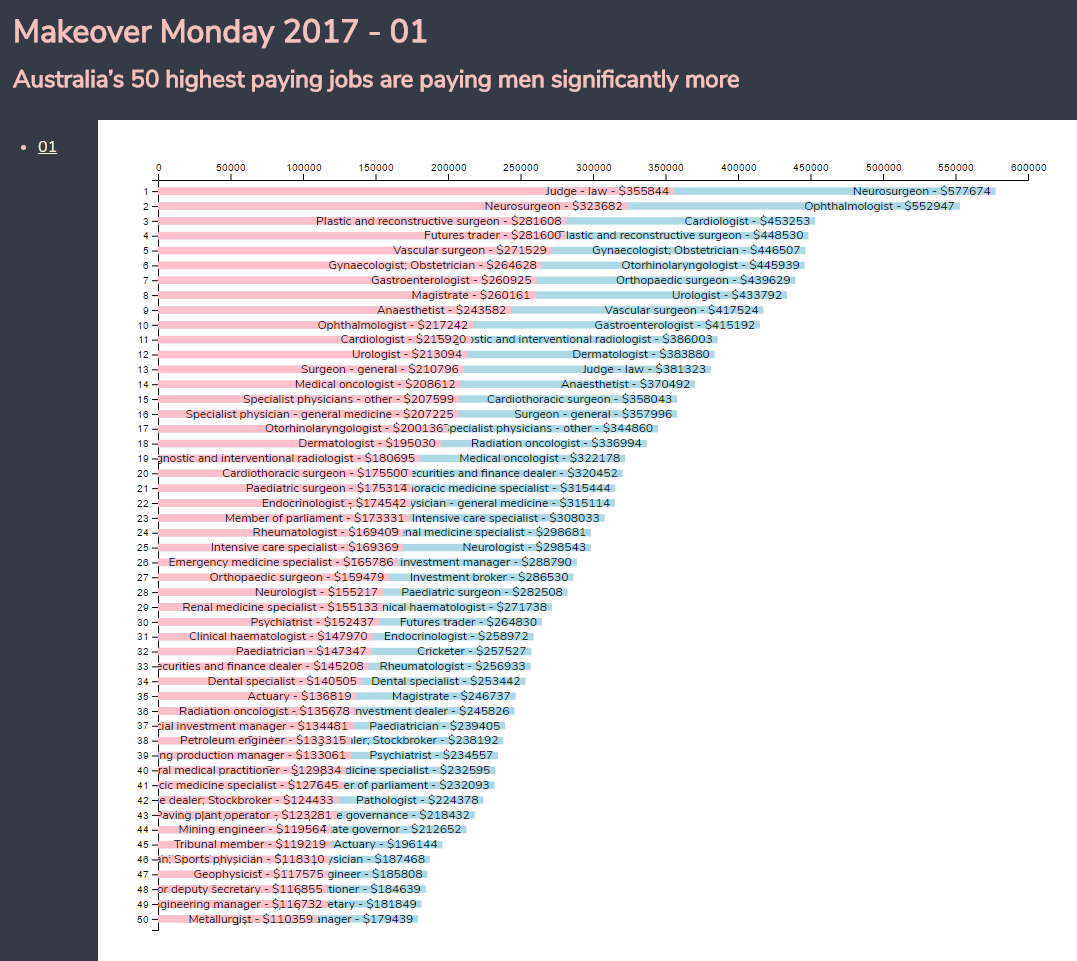
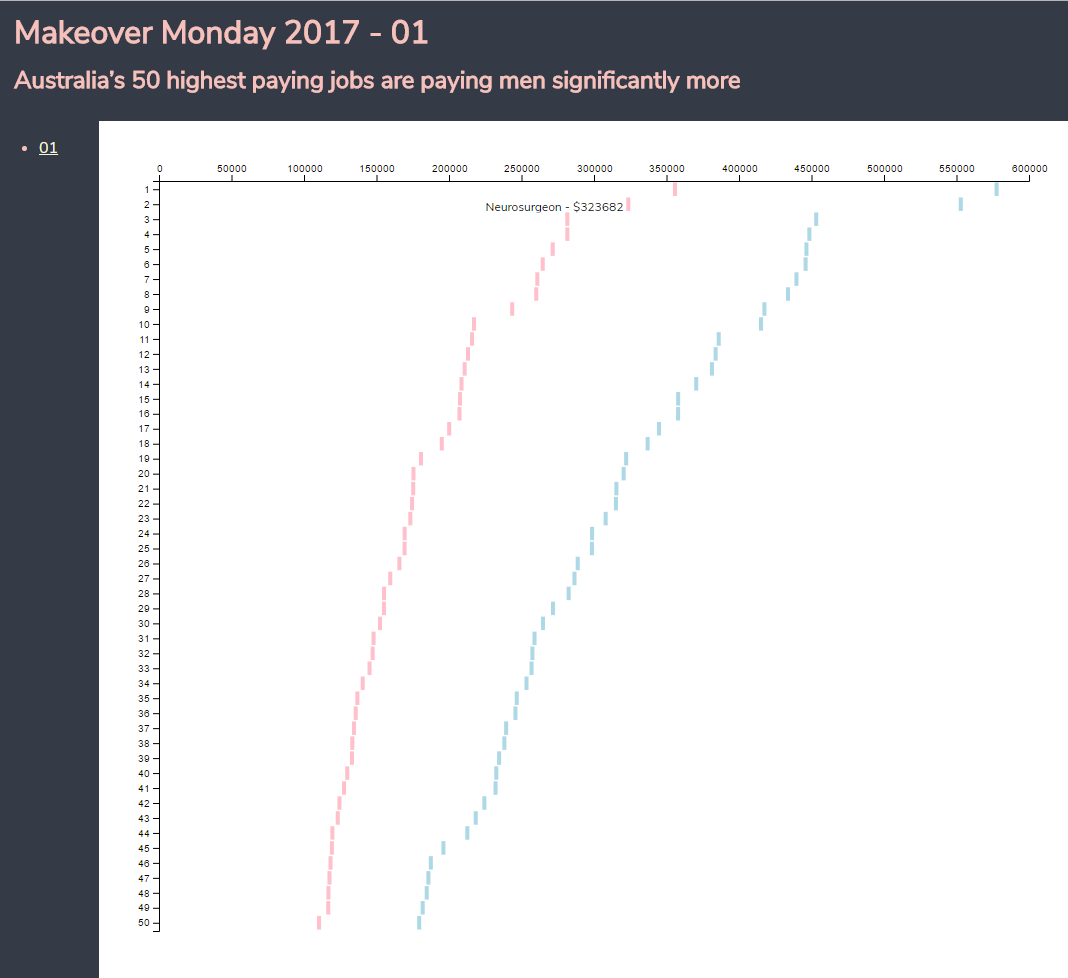
Reviewed and lighter design

Changed region(s): [[0.1236, 0.1561, 0.9888, 0.9677], [0.0, 0.0, 0.7107, 0.0937], [0.0309, 0.1249, 0.0618, 0.1561]]

diff --git a/src/components/challenges/01/component.ts b/src/components/challenges/01/component.ts
@@ -40,7 +40,7 @@ function controller(csvService: ICsvService) {
 
     let xAxis = new TopLinearAxis<any>(plotGroup, plotWidth, plotHeight);
     let yAxis = new LeftCategoricalAxis<any>(plotGroup, plotWidth, plotHeight)
-        .padding(0.5)
+        .padding(0.1)
         .domain(d3.range(1, 51, 1).map(d => d.toString()));
     let seriesGroup = plotGroup.append('g')
         .attr('clip-path', 'url(\'#clip\')')
@@ -64,9 +64,10 @@ function controller(csvService: ICsvService) {
 
         xAxis.domain([0, d3.max(data, d => d.income)]);
 
-        drawSeries(maleTopJobs, 'male', 'blue');
+        drawSeries(maleTopJobs, 'male', 'lightblue');
         drawSeries(femaleTopJobs, 'female', 'pink');
     };
+
     let fmt = d3.format('$')
     function drawSeries(data: Array<any>, classed: string, color: string) {
         var dataBound = seriesGroup.selectAll('.' + classed)
@@ -87,13 +88,20 @@ function controller(csvService: ICsvService) {
                 d3.select(this).select('text')
                     .style('display', 'none');
             });
+        let width = 4;
         enterSelection.append('rect')
+            .attr('x', 1)
             .attr('width', d => xAxis.scale(d.income))
+            .attr('height', yAxis.bandWidth())
+            .style('fill', 'white');
+        enterSelection.append('rect')
+            .attr('x', d => xAxis.scale(d.income) - width / 2)
+            .attr('width', width)
             .attr('height', yAxis.bandWidth());
         enterSelection.append('text')
             .style('font-size', '12px')
-            // .style('display', 'none')
             .style('text-anchor', 'end')
+            .style('display', 'none')
             .attr('x', d => xAxis.scale(d.income) - 5)
             .attr('y', yAxis.bandWidth())
             .text(d => d.occupation + ' - ' + fmt(d.income));
